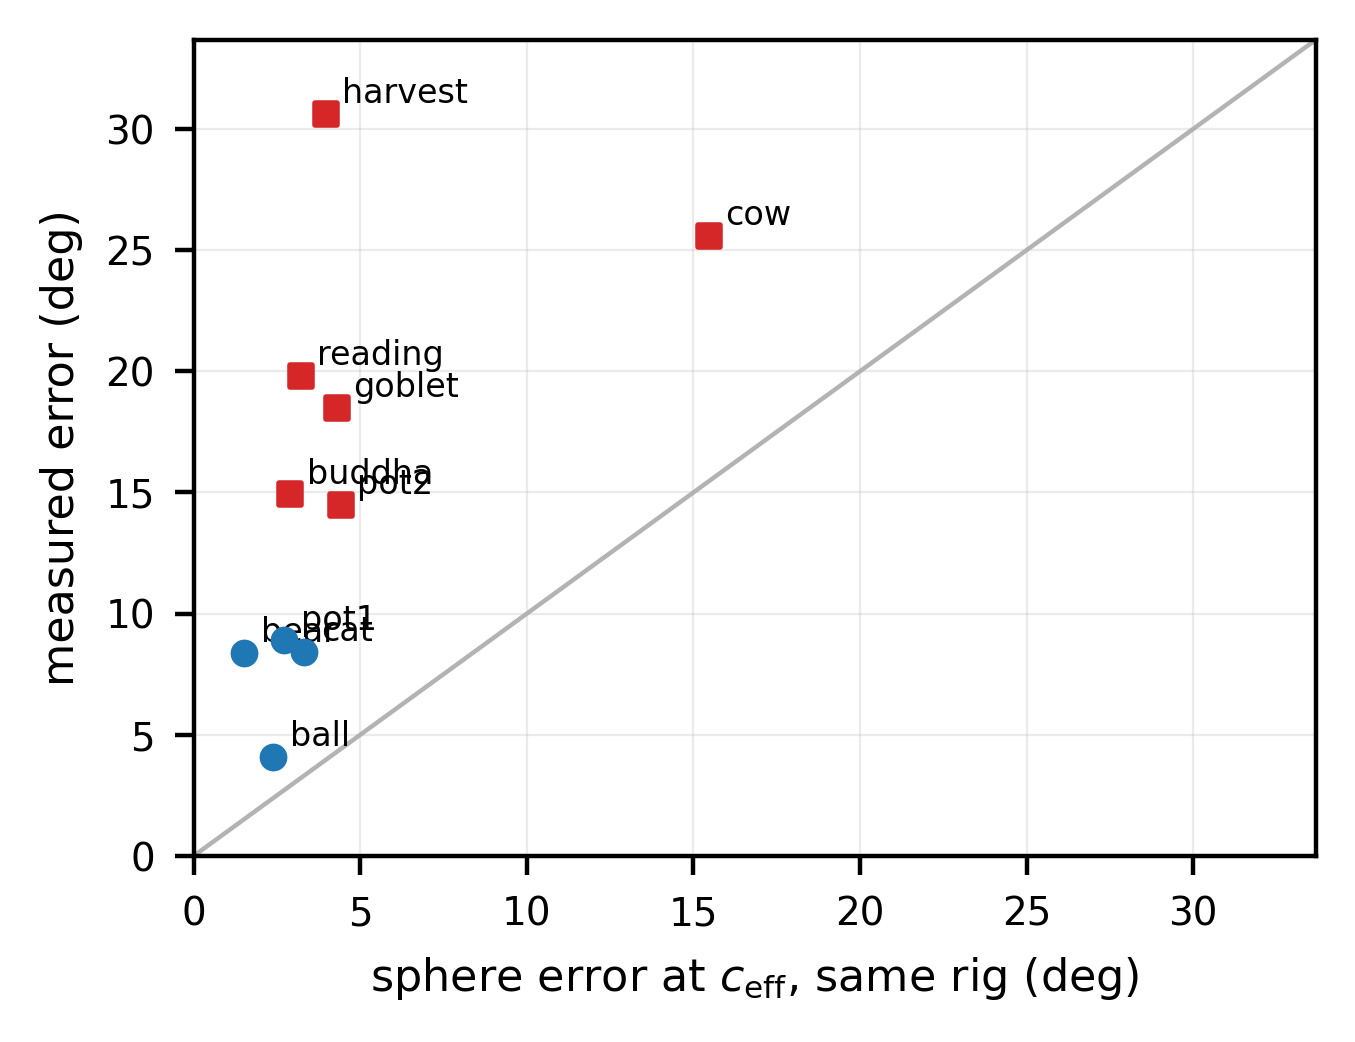
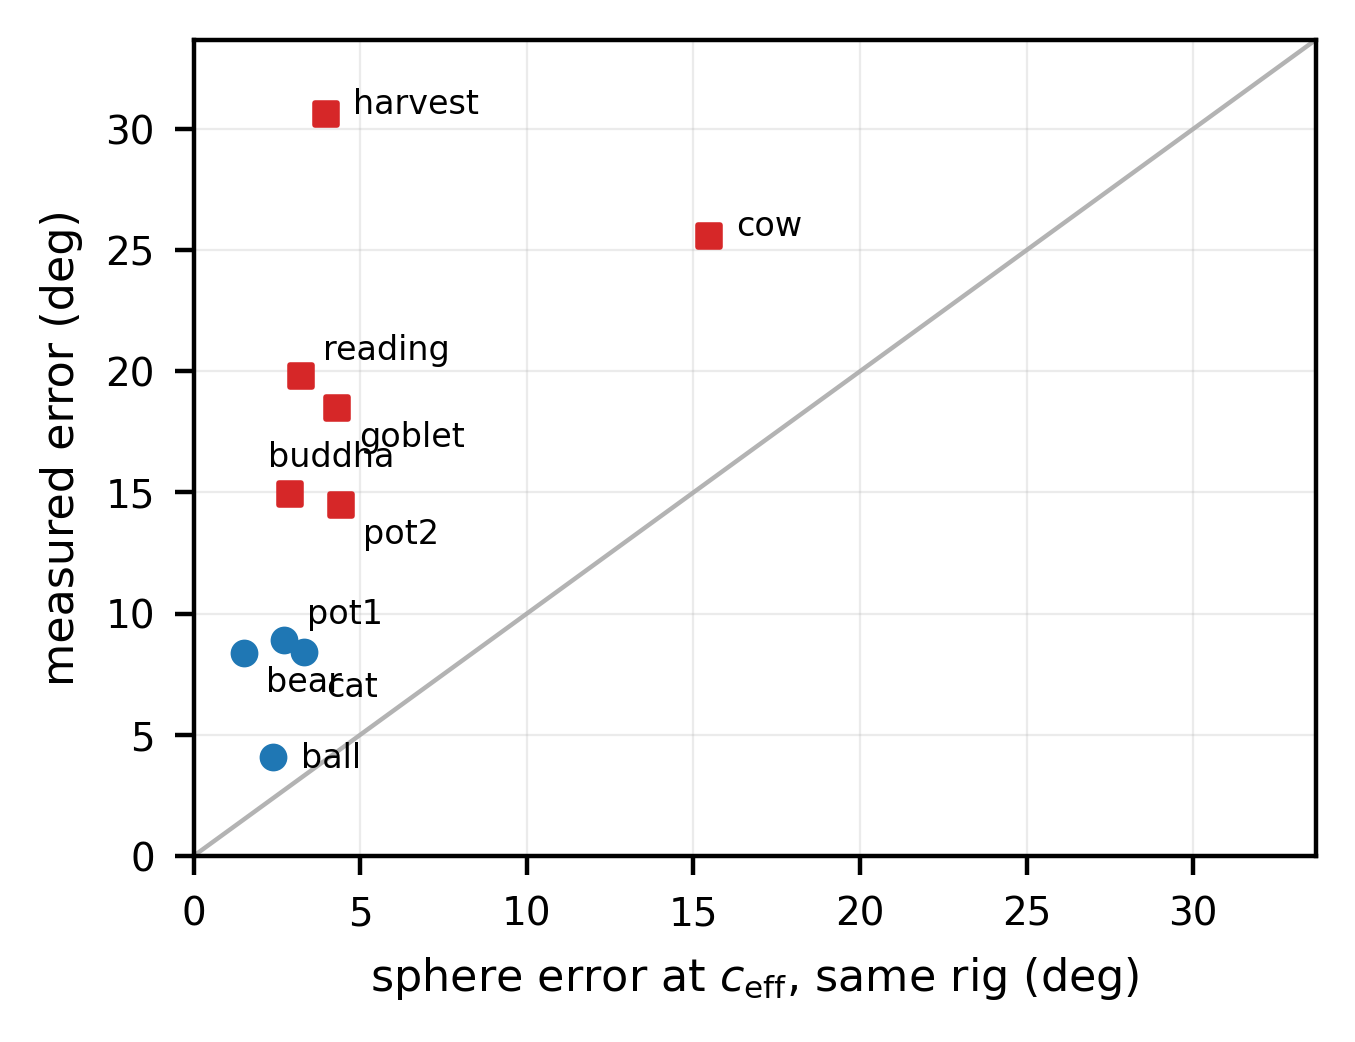
docs(paper): add figures

diff --git a/paper/main.tex b/paper/main.tex
@@ -142,22 +142,6 @@ degenerate special case of the parametric fitting line above
 value here is diagnostic, an oracle bound on what the one parameter family can
 explain, not a claim of novelty.
 
-\begin{table*}
-  \centering
-  \footnotesize
-  \setlength{\tabcolsep}{4.5pt}
-  \IfFileExists{tables/table2_landscape.tex}%
-    {\input{tables/table2_landscape}}{\input{table2_landscape}}
-  \caption{Reproduced evaluation of the estimate maps distributed with the
-  benchmark \cite{shi2016}, scored with the metric of
-  Section~\ref{sec:metric}: mean angular error in degrees, degenerate ground
-  truth pixels excluded. These are published results rescored for
-  comparability, not results of this paper. The pot2 column sits slightly
-  below originally published values for every method because of the exclusion
-  discussed in Section~\ref{sec:baseline}.}
-  \label{tab:landscape}
-\end{table*}
-
 \section{Method: image formation and the linear solver}
 
 \subsection{Lambertian image formation}
@@ -374,12 +358,12 @@ contains \degeneratePixels{} pixels of exactly zero length inside the mask, so
 the true orientation there is undefined. A metric that evaluates $\arccos$ of
 the dot product scores those pixels at 90 degrees, while a magnitude invariant
 formulation silently scores them at zero, that is, as perfect matches for any
-estimate whatsoever. The two conventions differ by \degenerateSwing{} degrees
-on this object, the entire visible gap in Table~\ref{tab:diligent}: scoring
-the excluded pixels at 90 degrees and averaging over the full mask reproduces
-the tabulated $14.65$ exactly. We exclude the \degeneratePixels{} pixels and
-report the count, rather than letting undefined pixels enter the mean under
-either convention.
+estimate whatsoever. Those two conventions differ by \degenerateSwing{}
+degrees on this object. We adopt neither, excluding the pixels and reporting
+the count, which leaves the \degenerateGap{} degree gap visible in
+Table~\ref{tab:diligent}. That the accounting is exact can be checked in one
+line: scoring the excluded pixels at 90 degrees and averaging over the full
+mask reproduces the tabulated $14.65$ to four decimal places.
 
 \begin{figure}
   \centering
@@ -480,6 +464,36 @@ and below the crossover that accident is worth more than the bad rows cost.
 Robustness machinery tuned for outliers does not automatically transfer to
 model mismatch.
 
+\begin{table*}
+  \centering
+  \footnotesize
+  \setlength{\tabcolsep}{4.5pt}
+  \IfFileExists{tables/table2_landscape.tex}%
+    {\input{tables/table2_landscape}}{\input{table2_landscape}}
+  \caption{Reproduced evaluation of the estimate maps distributed with the
+  benchmark \cite{shi2016}, scored with the metric of
+  Section~\ref{sec:metric}: mean angular error in degrees, degenerate ground
+  truth pixels excluded. These are published results rescored for
+  comparability, not results of this paper. The pot2 column sits slightly
+  below originally published values for every method because of the exclusion
+  discussed in Section~\ref{sec:baseline}.}
+  \label{tab:landscape}
+\end{table*}
+
+\begin{figure*}
+  \centering
+  \includegraphics[width=0.94\textwidth]{fig6_real_objects.png}
+  \caption{Three benchmark objects, spanning the reflectance range. The
+  rightmost column is the per pixel effective exponent, and it is what a per
+  object median cannot show. On the near diffuse ball it is nearly uniform and
+  close to one. On the cat it spikes exactly on the glossy painted patches. On
+  harvest the cloth saturates the scale while the two figures stay low. In
+  every case the exponent map predicts the error map beside it, which is the
+  spatial structure that Section~\ref{sec:exponent} argues a single global
+  exponent cannot capture.}
+  \label{fig:real}
+\end{figure*}
+
 \subsection{Real materials and the effective exponent}
 \label{sec:exponent}
 
@@ -528,8 +542,12 @@ under that object's own light rig, so that the comparison is not confounded by
 rig dependence. It does not: every object sits above the diagonal, by a factor
 of \bridgeRatioMin{} for the most diffuse objects up to \bridgeRatioMax{} for
 the most specular. A single global exponent is the wrong model for real
-materials, whose departure from Lambertian is concentrated in highlights and
-varies across the surface.
+materials, and Figure~\ref{fig:real} shows why directly. The exponent is not a
+property of an object but a field across it: nearly uniform on the near
+diffuse ball, spiking on the cat's glossy patches, and saturating across
+harvest's cloth while its figures stay low. In each case the exponent map and
+the error map beside it share the same spatial structure, which is exactly the
+information a per object median discards.
 
 The per pixel version of the same idea is where the signal lives.
 Equation~\eqref{eq:powerlaw} implies its own correction: raising each

diff --git a/paper/tables/numbers.tex b/paper/tables/numbers.tex
@@ -12,6 +12,7 @@
 \newcommand{\condCorr}{0.992}
 \newcommand{\condErrMax}{74.3}
 \newcommand{\condMax}{1335}
+\newcommand{\degenerateGap}{0.156}
 \newcommand{\degeneratePixels}{73}
 \newcommand{\degenerateSwing}{0.186}
 \newcommand{\diligentAgreeCount}{9}
